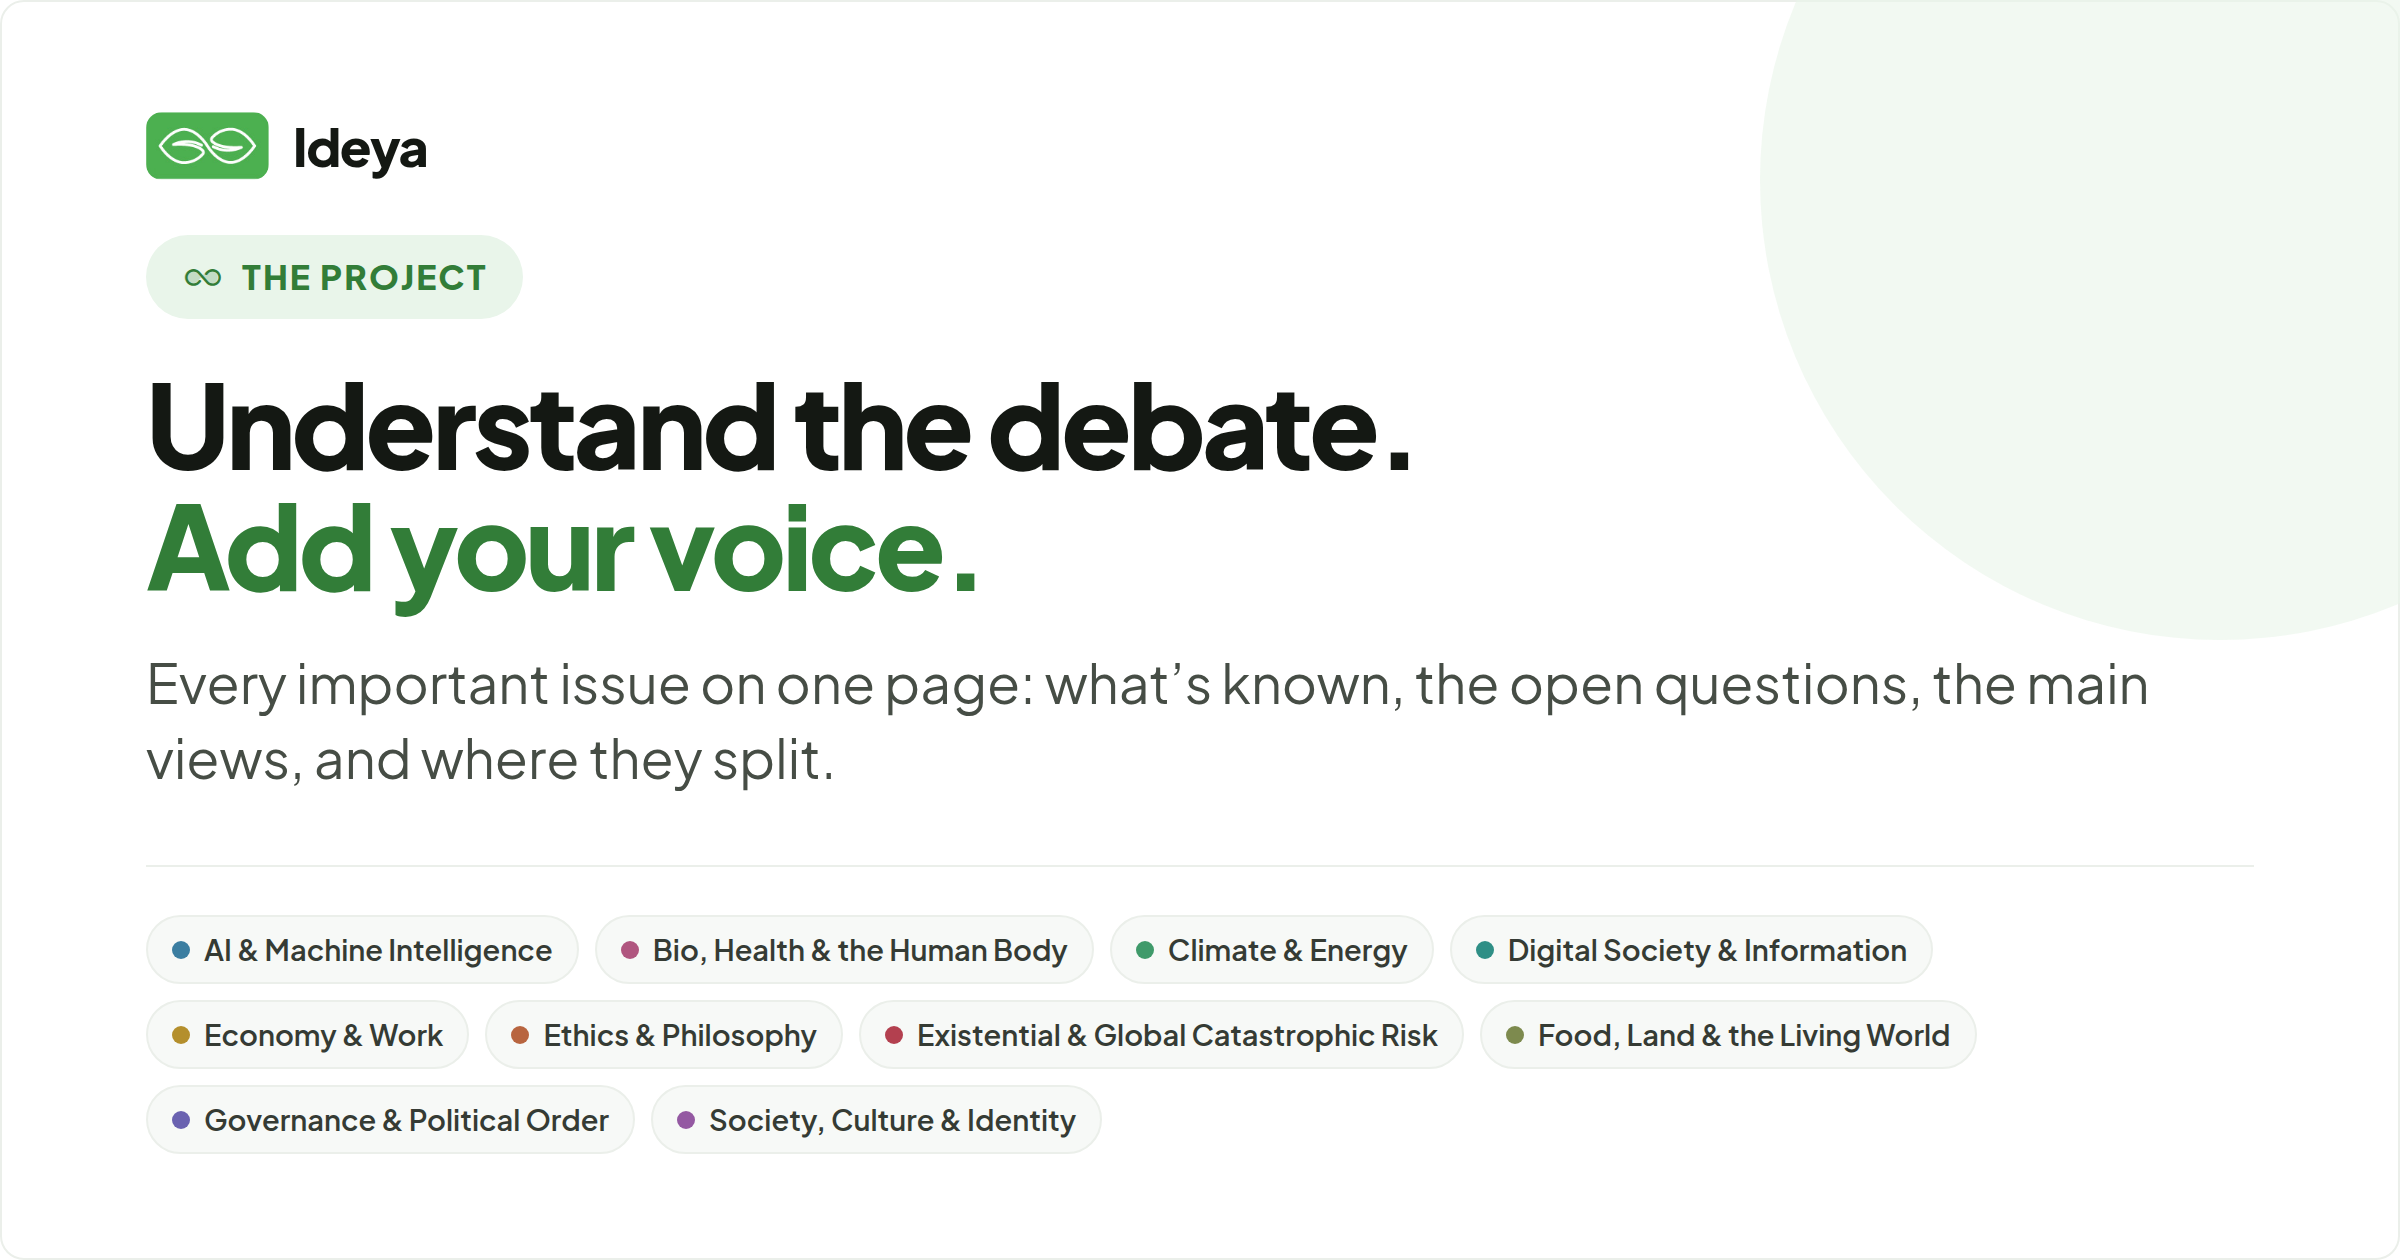
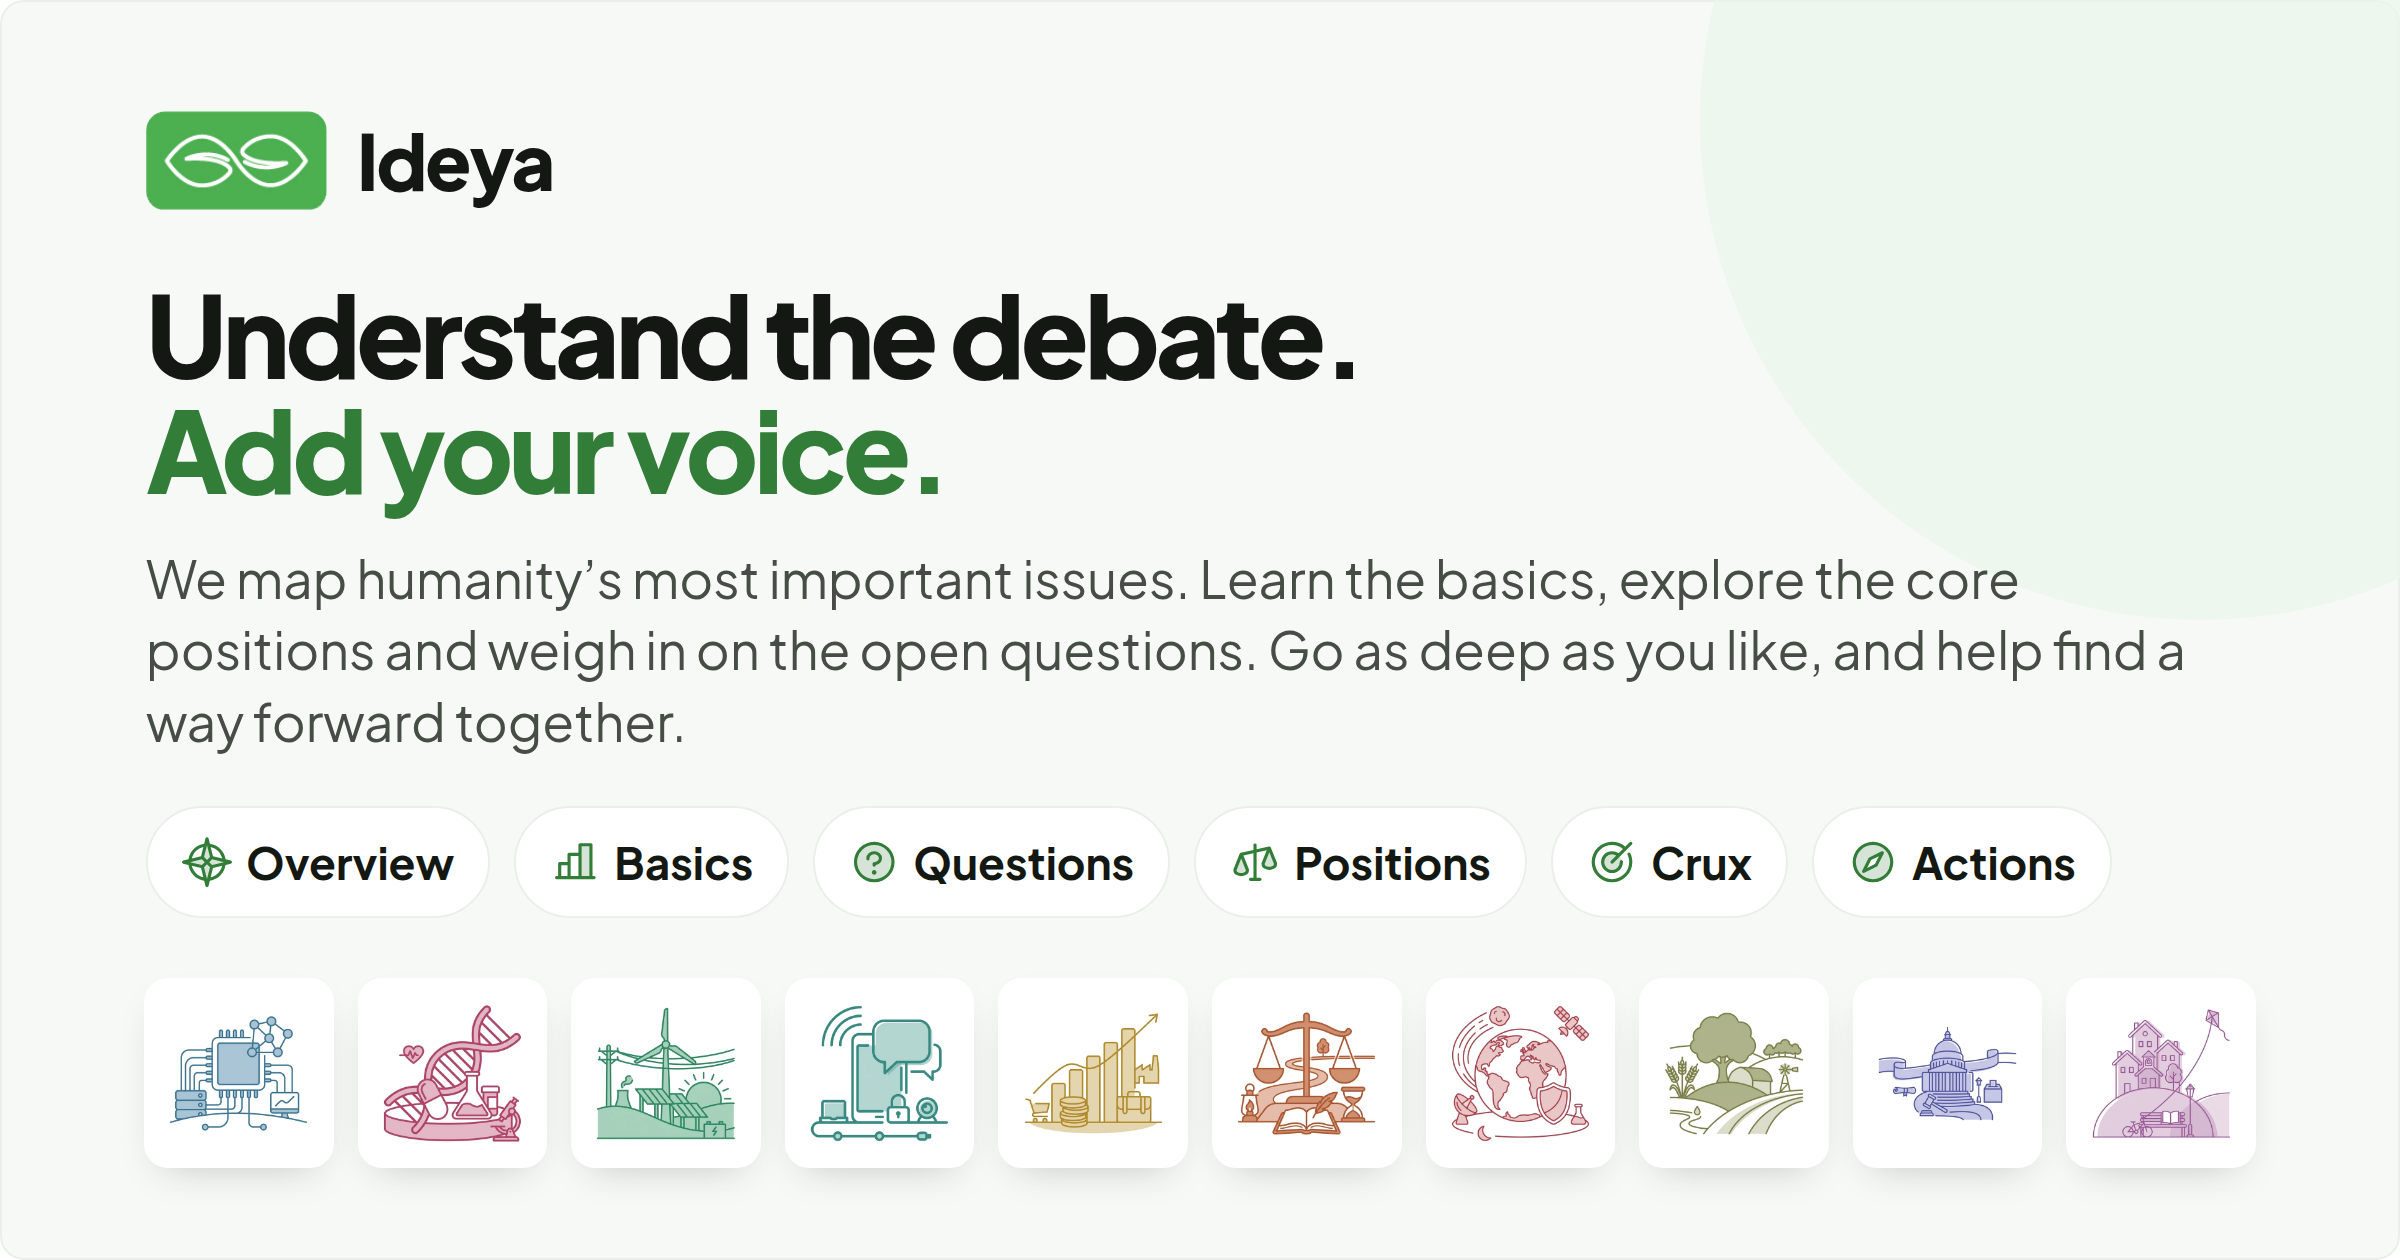
Site share card redesign: explainer, six sections, category art
Drops the "The project" kicker, old subtitle and category name chips.
The card now carries a larger lockup, the tagline, a three-line
explainer, the six section chips and the ten category illustrations.
The default meta and og descriptions use the same explainer.

diff --git a/templates/topics/site_share.html b/templates/topics/site_share.html
@@ -12,34 +12,38 @@
   body{background:#e7eae6;font-family:var(--font-sans);-webkit-font-smoothing:antialiased;padding:44px;display:flex;justify-content:center}
   body.card-only{padding:0;background:#fff;display:block}
   body.card-only .card{position:static;box-shadow:none}
-
-  .card{width:1200px;height:630px;flex:none;background:#fff;color:var(--ink-900);position:relative;overflow:hidden;display:flex;flex-direction:column;padding:52px 72px;box-shadow:0 20px 60px -24px rgba(20,22,15,.4)}
-  .card::before{content:"";position:absolute;right:-140px;top:-140px;width:460px;height:460px;border-radius:9999px;background:var(--green-tint);opacity:.6}
+  .card{width:1200px;height:630px;flex:none;background:#f7f9f7;color:var(--ink-900);position:relative;overflow:hidden;padding:50px 72px;box-shadow:0 20px 60px -24px rgba(20,22,15,.4)}
+  .card::before{content:"";position:absolute;right:-150px;top:-190px;width:500px;height:500px;border-radius:9999px;background:var(--green-tint);opacity:.75}
   .card>*{position:relative}
-  .brand{display:flex;align-items:center;gap:12px}
-  .brand .mark{height:34px;width:auto;border-radius:8px}
-  .brand .wm{font-weight:800;font-size:26px;letter-spacing:-.03em}
-  .kicker{align-self:flex-start;display:inline-flex;align-items:center;gap:9px;margin-top:24px;font-weight:800;font-size:17px;text-transform:uppercase;letter-spacing:.06em;color:var(--accent-strong);background:var(--green-tint);border-radius:9999px;padding:8px 18px}
-  .kicker i{font-size:19px}
-  .headline{margin:22px 0 0;font-weight:800;font-size:58px;letter-spacing:-.035em;line-height:1.04;max-width:16ch}
+  .brand{display:flex;align-items:center;gap:15px}
+  .brand .mark{height:50px;width:auto;border-radius:10px}
+  .brand .wm{font-weight:800;font-size:38px;letter-spacing:-.03em}
+  .headline{margin:28px 0 0;font-weight:800;font-size:56px;letter-spacing:-.04em;line-height:1.03}
   .headline .hl{color:var(--accent-strong)}
-  .desc{margin:20px 0 24px;font-size:27px;line-height:1.4;color:var(--ink-600);max-width:54ch;text-wrap:pretty}
-  .foot{margin-top:auto;display:flex;align-items:flex-start;gap:18px;padding-top:24px;border-top:1px solid var(--ink-100)}
-  .cchips{display:flex;gap:8px;flex-wrap:wrap}
-  .cchip{display:inline-flex;align-items:center;gap:7px;font-size:14.5px;font-weight:600;color:var(--ink-700);background:var(--ink-50);border:1px solid var(--ink-100);border-radius:9999px;padding:5px 12px;white-space:nowrap}
-  .cchip .dot{width:9px;height:9px;border-radius:9999px;flex:none}
+  .desc{margin:18px 0 0;font-size:26px;line-height:1.38;color:var(--ink-600)}
+  .sections{display:flex;gap:12px;margin-top:24px}
+  .sections span{display:inline-flex;align-items:center;gap:7px;font-weight:700;font-size:22px;background:#fff;border:1px solid var(--ink-100);border-radius:9999px;padding:10px 17px}
+  .sections i{color:var(--accent-strong);font-size:25px}
+  .card>.arts{position:absolute;left:72px;right:72px;bottom:46px;display:flex;gap:12px}
+  .arts div{flex:1;aspect-ratio:1/1;background:#fff;border-radius:12px;box-shadow:0 8px 20px -10px rgba(30,40,30,.28);display:flex;align-items:center;justify-content:center}
+  .arts img{width:84%}
 </style>
 </head>
 <body{% if render_card %} class="card-only"{% endif %}>
   <div class="card">
     <div class="brand"><img class="mark" src="{% static 'img/ideya-mark.png' %}" alt="" /><span class="wm">Ideya</span></div>
-    <span class="kicker"><i class="ph-duotone ph-infinity"></i>The project</span>
-    <h1 class="headline">Understand the debate. <span class="hl">Add your voice.</span></h1>
-    <p class="desc">Every important issue on one page: what’s known, the open questions, the main views, and where they split.</p>
-    <div class="foot">
-      <div class="cchips">
-        {% for cat in categories %}<span class="cchip"><span class="dot" style="background:{{ cat.color_var }}"></span>{{ cat.name }}</span>{% endfor %}
-      </div>
+    <h1 class="headline">Understand the debate.<br><span class="hl">Add your voice.</span></h1>
+    <p class="desc">We map humanity’s most important issues. Learn the basics, explore the core positions and weigh in on the open questions. Go as deep as you like, and help find a way forward together.</p>
+    <div class="sections">
+      <span><i class="ph-duotone ph-compass-rose"></i>Overview</span>
+      <span><i class="ph-duotone ph-chart-bar"></i>Basics</span>
+      <span><i class="ph-duotone ph-question"></i>Questions</span>
+      <span><i class="ph-duotone ph-scales"></i>Positions</span>
+      <span><i class="ph-duotone ph-target"></i>Crux</span>
+      <span><i class="ph-duotone ph-compass"></i>Actions</span>
+    </div>
+    <div class="arts">
+      {% for cat in categories %}{% if cat.primary_art_webp %}<div><img src="{% static cat.primary_art_webp %}" alt="" /></div>{% endif %}{% endfor %}
     </div>
   </div>
 </body>

diff --git a/templates/base.html b/templates/base.html
@@ -4,14 +4,14 @@
   <meta charset="utf-8" />
   <meta name="viewport" content="width=device-width, initial-scale=1, viewport-fit=cover" />
   <title>{% block title %}Ideya{% endblock %}</title>
-  <meta name="description" content="{% block description %}Understand the debate. Add your voice. Each topic lays out the facts, the open questions, every side’s strongest case and the question the disagreement turns on.{% endblock %}" />
+  <meta name="description" content="{% block description %}Understand the debate. Add your voice. We map humanity’s most important issues. Learn the basics, explore the core positions and weigh in on the open questions. Go as deep as you like, and help find a way forward together.{% endblock %}" />
   <link rel="icon" href="{% static 'img/favicon-96.png' %}" sizes="96x96" type="image/png" />
   <link rel="apple-touch-icon" href="{% static 'img/apple-touch-icon.png' %}" />
   <link rel="canonical" href="{{ origin }}{{ request.path }}" />
   <meta property="og:site_name" content="Ideya" />
   <meta property="og:type" content="{% block og_type %}website{% endblock %}" />
   <meta property="og:title" content="{% block og_title %}Ideya{% endblock %}" />
-  <meta property="og:description" content="{% block og_description %}Understand the debate. Add your voice. Each topic lays out the facts, the open questions, every side’s strongest case and the question the disagreement turns on.{% endblock %}" />
+  <meta property="og:description" content="{% block og_description %}Understand the debate. Add your voice. We map humanity’s most important issues. Learn the basics, explore the core positions and weigh in on the open questions. Go as deep as you like, and help find a way forward together.{% endblock %}" />
   <meta property="og:url" content="{{ origin }}{{ request.path }}" />
   {% block og_image %}
   <meta property="og:image" content="{{ origin }}{% static 'img/social/site.png' %}" />
